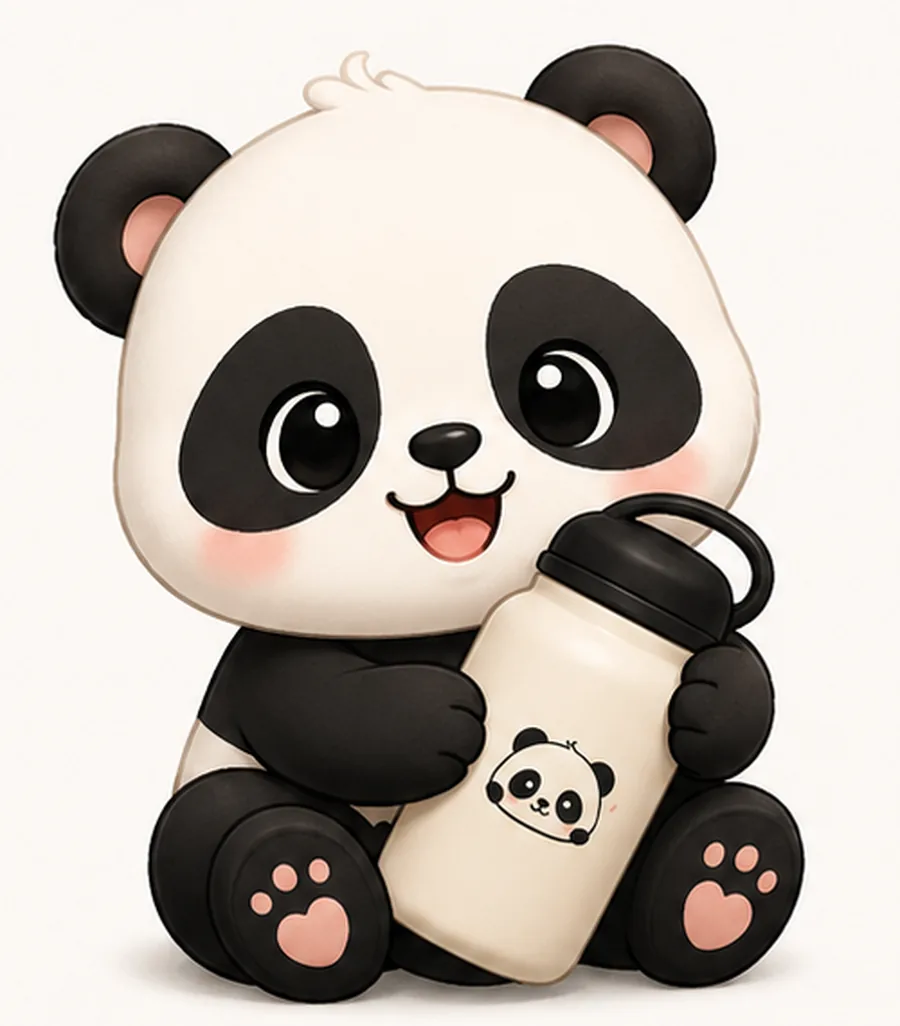
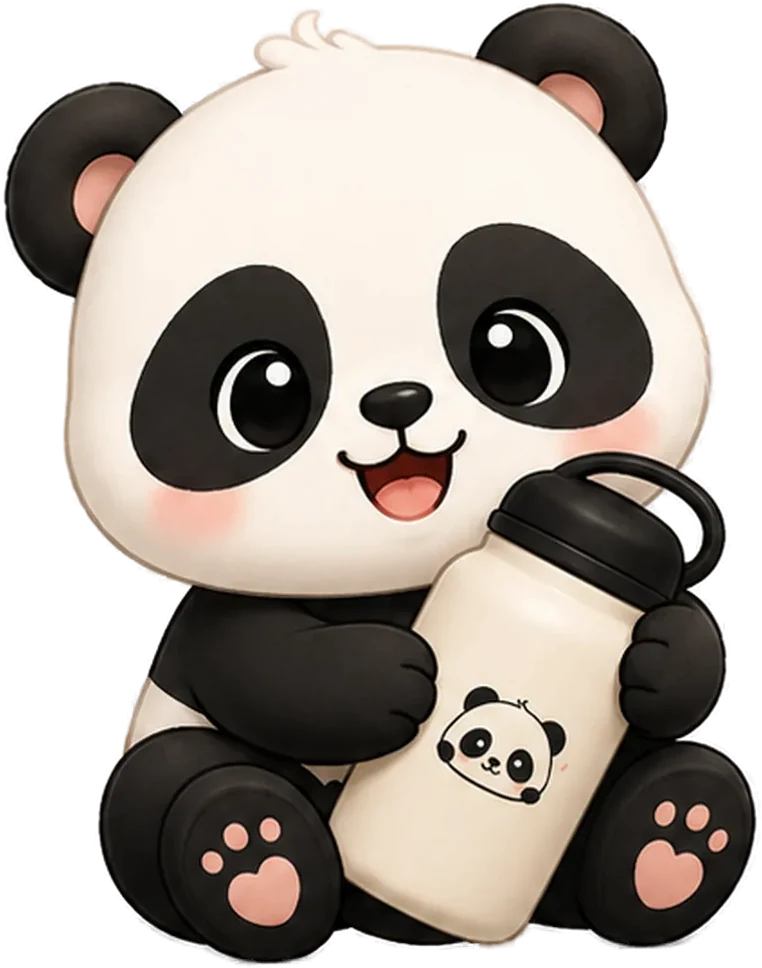
feat: incorpora os adesivos da marca ao site
Recorta o fundo das novas ilustrações (rembg) e as aplica: logo em
pílula no topo, coração pontilhado no hero, panda com copo no
simulador, ícones adesivos nos diferenciais, balão de frase no
contato, panda dormindo e logo empilhado no rodapé. Mascotes do hero
e da galeria agora têm fundo transparente. Remove assets sem uso.

Claude-Session: https://claude.ai/code/session_01LUHnjXVrB14Zo46Cd7b8mY

diff --git a/panda-mimo/index.html b/panda-mimo/index.html
@@ -9,7 +9,7 @@
   <meta property="og:title" content="Panda Mimo · Itens personalizados">
   <meta property="og:description" content="Feito com carinho, feito pra você. Garrafas, canecas, tags e kits personalizados.">
   <meta property="og:image" content="assets/logo-redondo.webp">
-  <link rel="icon" href="assets/logo-redondo.webp" type="image/webp">
+  <link rel="icon" href="assets/panda-carinha.webp" type="image/webp">
   <link rel="preconnect" href="https://fonts.googleapis.com">
   <link rel="preconnect" href="https://fonts.gstatic.com" crossorigin>
   <link rel="stylesheet" href="https://fonts.googleapis.com/css2?family=Fredoka:wght@400;500;600;700&family=Caveat:wght@500;600;700&family=Nunito:wght@400;600;700;800&display=swap">
@@ -22,7 +22,7 @@
 <header class="topbar">
   <div class="wrap topbar__in">
     <a class="brand" href="#inicio" aria-label="Panda Mimo — início">
-      <img src="assets/logo-horizontal.webp" alt="Panda Mimo — itens personalizados" width="180" height="92">
+      <img src="assets/logo-pill.webp" alt="Panda Mimo — itens personalizados" width="214" height="62">
     </a>
     <nav class="nav" aria-label="Principal">
       <a href="#produtos">Produtos</a>
@@ -63,10 +63,10 @@
         </ul>
       </div>
       <figure class="hero__art">
-        <span class="heart heart--a" aria-hidden="true"></span>
+        <img class="heart-img" src="assets/coracao-costura.webp" alt="" width="230" height="200" aria-hidden="true">
         <span class="heart heart--b" aria-hidden="true"></span>
         <span class="heart heart--c" aria-hidden="true"></span>
-        <img src="assets/mascote-hero.webp" alt="Mascote da Panda Mimo: um panda sorridente abraçando uma garrafa térmica personalizada" width="900" height="1026" fetchpriority="high">
+        <img src="assets/mascote-hero.webp" alt="Mascote da Panda Mimo: um panda sorridente abraçando uma garrafa térmica personalizada" width="762" height="968" fetchpriority="high">
         <figcaption class="tag-note">
           <span class="tag-note__hole" aria-hidden="true"></span>
           Feito pra<br>você.
@@ -236,7 +236,10 @@
               <text x="124" y="222" text-anchor="middle" class="pv-text">Malu</text>
             </g>
           </svg>
-          <p class="builder__note"><span class="hand">Só uma prévia, tá?</span> Cores e proporções finais variam com a peça.</p>
+          <div class="builder__foot">
+            <img src="assets/panda-copo.webp" alt="" width="380" height="390" loading="lazy">
+            <p class="builder__note"><span class="hand">Só uma prévia, tá?</span> Cores e proporções finais variam com a peça.</p>
+          </div>
         </div>
       </div>
     </div>
@@ -288,12 +291,12 @@
 
       <ul class="promises">
         <li class="promise">
-          <svg viewBox="0 0 48 48" aria-hidden="true"><path d="M24 40s-14-8.4-14-19a8 8 0 0 1 14-5.2A8 8 0 0 1 38 21c0 10.6-14 19-14 19Z" fill="#FFB59C"/><path d="M10 34c3 4 7 6 14 6s11-2 14-6" fill="none" stroke="#FBF6EF" stroke-width="2.4" stroke-linecap="round"/></svg>
+          <img src="assets/panda-coracao.webp" alt="" width="380" height="420" loading="lazy">
           <h3>Feito com carinho</h3>
           <p>Cada peça passa pelas nossas mãos, uma de cada vez. Nada sai sem conferência.</p>
         </li>
         <li class="promise">
-          <svg viewBox="0 0 48 48" aria-hidden="true"><rect x="8" y="18" width="32" height="22" rx="3" fill="#FFB59C"/><rect x="6" y="12" width="36" height="8" rx="2" fill="#FBF6EF"/><path d="M24 12v28M24 12c-4-6-10-6-10-2s6 3 10 2Zm0 0c4-6 10-6 10-2s-6 3-10 2Z" fill="none" stroke="#171512" stroke-width="2"/></svg>
+          <img src="assets/icone-presente.webp" alt="" width="77" height="82" loading="lazy">
           <h3>Personalizado do seu jeito</h3>
           <p>Nome, frase, data, desenho. Se cabe na peça, cabe no pedido.</p>
         </li>
@@ -303,12 +306,12 @@
           <p>Inox que não amassa no primeiro tombo, cerâmica que aguenta a máquina, impressão que não sai na lavagem.</p>
         </li>
         <li class="promise">
-          <svg viewBox="0 0 48 48" aria-hidden="true"><path d="M4 30V16h24v14Zm24-9h9l7 7v2H28Z" fill="#FFB59C"/><circle cx="13" cy="34" r="4" fill="#171512"/><circle cx="36" cy="34" r="4" fill="#171512"/><path d="M16 26s-5-3-5-6.5a2.6 2.6 0 0 1 5-1.5 2.6 2.6 0 0 1 5 1.5c0 3.5-5 6.5-5 6.5Z" fill="#171512"/></svg>
+          <img src="assets/icone-caminhao.webp" alt="" width="92" height="86" loading="lazy">
           <h3>Feito para chegar até você</h3>
           <p>Embalagem pensada pra viagem: caixa kraft, proteção interna e o bilhetinho por cima.</p>
         </li>
         <li class="promise">
-          <img src="assets/mascote-paz.webp" alt="" width="64" height="70" loading="lazy">
+          <img src="assets/panda-carinha.webp" alt="" width="207" height="157" loading="lazy">
           <h3>Mais que um presente, um mimo</h3>
           <p>A gente acredita que o melhor presente é o que diz "pensei em você". É isso que a Panda Mimo faz.</p>
         </li>
@@ -326,10 +329,10 @@
       <div class="gallery">
         <figure><img src="assets/foto-garrafa-solo.webp" alt="Garrafa térmica creme personalizada Panda Mimo" loading="lazy" width="700" height="700"></figure>
         <figure><img src="assets/foto-caneca-2.webp" alt="Caneca creme com alça preta e logo Panda Mimo" loading="lazy" width="700" height="630"></figure>
-        <figure class="gallery__mascot"><img src="assets/mascote-timido.webp" alt="Mascote Panda Mimo com as patinhas no rosto" loading="lazy" width="340" height="370"></figure>
+        <figure class="gallery__mascot"><img src="assets/panda-presente.webp" alt="Mascote Panda Mimo segurando uma caixa de presente com laço" loading="lazy" width="365" height="420"></figure>
         <figure><img src="assets/foto-tag.webp" alt="Tag redonda personalizada com cordão" loading="lazy" width="700" height="875"></figure>
         <figure><img src="assets/foto-caixa.webp" alt="Caixa kraft com fita e logo Panda Mimo" loading="lazy" width="700" height="671"></figure>
-        <figure class="gallery__mascot"><img src="assets/mascote-garrafa.webp" alt="Mascote Panda Mimo segurando uma garrafinha" loading="lazy" width="340" height="350"></figure>
+        <figure class="gallery__mascot"><img src="assets/mascote-garrafa.webp" alt="Mascote Panda Mimo segurando uma garrafinha" loading="lazy" width="248" height="322"></figure>
       </div>
     </div>
   </section>
@@ -356,16 +359,21 @@
           <div><dt>Envio</dt><dd>Para todo o Brasil</dd></div>
         </dl>
       </div>
-      <img class="contact__logo" src="assets/logo-redondo.webp" alt="Selo redondo Panda Mimo — itens personalizados" width="320" height="320" loading="lazy">
+      <div class="contact__art">
+        <img class="contact__logo" src="assets/logo-redondo.webp" alt="Selo redondo Panda Mimo — itens personalizados" width="320" height="320" loading="lazy">
+        <img class="contact__bubble" src="assets/balao-frase.webp" alt="Balão de fala: feito com carinho, feito pra você!" width="275" height="310" loading="lazy">
+      </div>
     </div>
   </section>
 
 </main>
 
 <footer class="footer">
-  <div class="stitch stitch--footer" aria-hidden="true"></div>
+  <div class="stitch stitch--footer" aria-hidden="true">
+    <img class="footer__sleep" src="assets/panda-dormindo.webp" alt="" width="368" height="223" loading="lazy">
+  </div>
   <div class="wrap footer__in">
-    <p class="footer__brand">Panda<span>Mimo</span><sup>®</sup></p>
+    <img class="footer__brand" src="assets/logo-empilhado.webp" alt="Panda Mimo — itens personalizados" width="374" height="250" loading="lazy">
     <p class="footer__tag hand">Feito com carinho, feito pra você.</p>
     <p class="footer__legal">© <span id="ano">2026</span> Panda Mimo · Itens personalizados</p>
   </div>

diff --git a/panda-mimo/styles.css b/panda-mimo/styles.css
@@ -148,7 +148,7 @@ h2 .hand { font-size: 1.15em; }
   display: flex; align-items: center; justify-content: space-between; gap: 1.5rem;
   min-height: 72px;
 }
-.brand img { width: 150px; height: auto; mix-blend-mode: multiply; }
+.brand img { width: 176px; height: auto; }
 .nav { display: flex; gap: 1.6rem; }
 .nav a {
   text-decoration: none;
@@ -161,7 +161,7 @@ h2 .hand { font-size: 1.15em; }
 }
 .nav a:hover { color: var(--ink); border-color: var(--peach); }
 @media (max-width: 860px) { .nav { display: none; } }
-@media (max-width: 480px) { .topbar .btn span { display: none; } .brand img { width: 128px; } }
+@media (max-width: 480px) { .topbar .btn span { display: none; } .brand img { width: 140px; } }
 
 /* ---------- hero ---------- */
 .hero { padding-block: clamp(2.5rem, 6vw, 5rem) clamp(2rem, 5vw, 4rem); overflow: hidden; }
@@ -186,7 +186,6 @@ h2 .hand { font-size: 1.15em; }
 .hero__art img {
   width: min(100%, 520px);
   margin-inline: auto;
-  mix-blend-mode: multiply;
   filter: drop-shadow(0 30px 40px rgba(23, 21, 18, .16));
   animation: float 7s ease-in-out infinite;
 }
@@ -205,7 +204,7 @@ h2 .hand { font-size: 1.15em; }
 }
 .heart::before { top: -11px; left: 0; }
 .heart::after  { left: 11px; top: 0; }
-.heart--a { top: 8%;  right: 10%; }
+.hero__art .heart-img { position: absolute; top: 4%; right: 6%; width: 74px; height: auto; rotate: 12deg; animation: drift 6s ease-in-out infinite; filter: drop-shadow(0 6px 10px rgba(23,21,18,.15)); }
 .heart--b { top: 34%; left: 4%;  width: 14px; height: 14px; opacity: .7; animation-delay: -2s; }
 .heart--b::before, .heart--b::after { width: 14px; height: 14px; }
 .heart--b::before { top: -7px; } .heart--b::after { left: 7px; }
@@ -261,6 +260,7 @@ h2 .hand { font-size: 1.15em; }
   color: var(--peach-deep); font-size: 1rem; line-height: 1;
 }
 .stitch--footer { border-color: var(--sand); }
+.footer__sleep { position: absolute; left: 50%; bottom: -2px; translate: -50% 0; width: 130px; height: auto; }
 .stitch--footer::after { background: var(--cream); color: var(--kraft); }
 
 /* ---------- seções ---------- */
@@ -419,7 +419,9 @@ h2 .hand { font-size: 1.15em; }
 .preview[data-cor="preta"] .pv-heart, .preview[data-cor="pessego"] .pv-heart { fill: var(--pv-ink, var(--ink)); }
 .preview .pv-panda { transition: opacity .2s; }
 .preview[data-panda="off"] .pv-panda { opacity: 0; }
-.builder__note { font-size: var(--fs-s); color: var(--ink-soft); text-align: center; }
+.builder__foot { display: flex; align-items: center; gap: .6rem; max-width: 380px; }
+.builder__foot img { width: 120px; flex: none; }
+.builder__note { font-size: var(--fs-s); color: var(--ink-soft); }
 .builder__note .hand { font-size: 1.25rem; }
 
 /* ---------- como funciona ---------- */
@@ -463,8 +465,8 @@ h2 .hand { font-size: 1.15em; }
   gap: 1.2rem 2rem;
 }
 .promise { display: grid; gap: .55rem; align-content: start; padding-top: 1.2rem; border-top: 1px solid #3A352F; }
-.promise svg, .promise img { width: 56px; height: 56px; object-fit: contain; margin-bottom: .3rem; }
-.promise img { filter: drop-shadow(0 4px 8px rgba(0,0,0,.4)); }
+.promise svg, .promise img { width: auto; height: 84px; max-width: 100%; object-fit: contain; object-position: left; margin-bottom: .3rem; }
+.promise img { filter: drop-shadow(0 6px 10px rgba(0,0,0,.35)); }
 .promise h3 { font-family: var(--f-display); font-weight: 600; font-size: 1.15rem; color: var(--paper); }
 .promise p { color: #CFC7BC; font-size: var(--fs-s); }
 
@@ -478,7 +480,7 @@ h2 .hand { font-size: 1.15em; }
 .gallery img { width: 100%; height: 100%; object-fit: cover; transition: transform .4s ease; }
 .gallery figure:hover img { transform: scale(1.04); }
 .gallery__mascot { display: grid; place-items: center; background: var(--sand-soft); }
-.gallery__mascot img { width: auto; height: 82%; object-fit: contain; mix-blend-mode: multiply; }
+.gallery__mascot img { width: auto; height: 78%; object-fit: contain; }
 @media (max-width: 700px) { .gallery { grid-template-columns: repeat(2, minmax(0, 1fr)); } }
 
 /* ---------- contato ---------- */
@@ -488,7 +490,15 @@ h2 .hand { font-size: 1.15em; }
   align-items: center;
   gap: clamp(2rem, 5vw, 4rem);
 }
-@media (max-width: 800px) { .contact { grid-template-columns: 1fr; } .contact__logo { order: -1; width: min(60%, 260px); margin-inline: auto; } }
+@media (max-width: 800px) { .contact { grid-template-columns: 1fr; } .contact__art { order: -1; max-width: 300px; margin-inline: auto; } }
+.contact__art { position: relative; width: min(100%, 340px); margin-inline: auto; padding-top: 2.5rem; }
+.contact__bubble {
+  position: absolute; top: 0; right: -6%;
+  width: 46%; height: auto;
+  rotate: 8deg;
+  filter: drop-shadow(0 10px 18px rgba(23,21,18,.22));
+  animation: drift 6s ease-in-out infinite;
+}
 .contact__copy { display: grid; gap: 1.2rem; justify-items: start; }
 .contact__copy .lede { color: #5A3A2C; }
 .contact__actions { display: flex; flex-wrap: wrap; gap: .8rem; }
@@ -510,9 +520,8 @@ h2 .hand { font-size: 1.15em; }
 /* ---------- rodapé ---------- */
 .footer { background: var(--cream); padding: 2rem 0 2.4rem; }
 .footer__in { display: grid; justify-items: center; gap: .3rem; text-align: center; padding-top: 1.6rem; }
-.footer__brand { font-family: var(--f-display); font-weight: 700; font-size: 1.8rem; line-height: 1; letter-spacing: -.02em; }
-.footer__brand span { color: var(--peach-deep); font-family: var(--f-hand); font-size: 1.15em; margin-left: .15em; }
-.footer__brand sup { font-size: .4em; vertical-align: super; color: var(--ink-soft); font-family: var(--f-body); }
+.footer { padding-top: 5.2rem; }
+.footer__brand { width: 190px; height: auto; margin-bottom: .6rem; }
 .footer__tag { font-size: 1.3rem; color: var(--ink-soft); }
 .footer__legal { font-size: var(--fs-xs); color: var(--ink-soft); margin-top: .8rem; }
 
